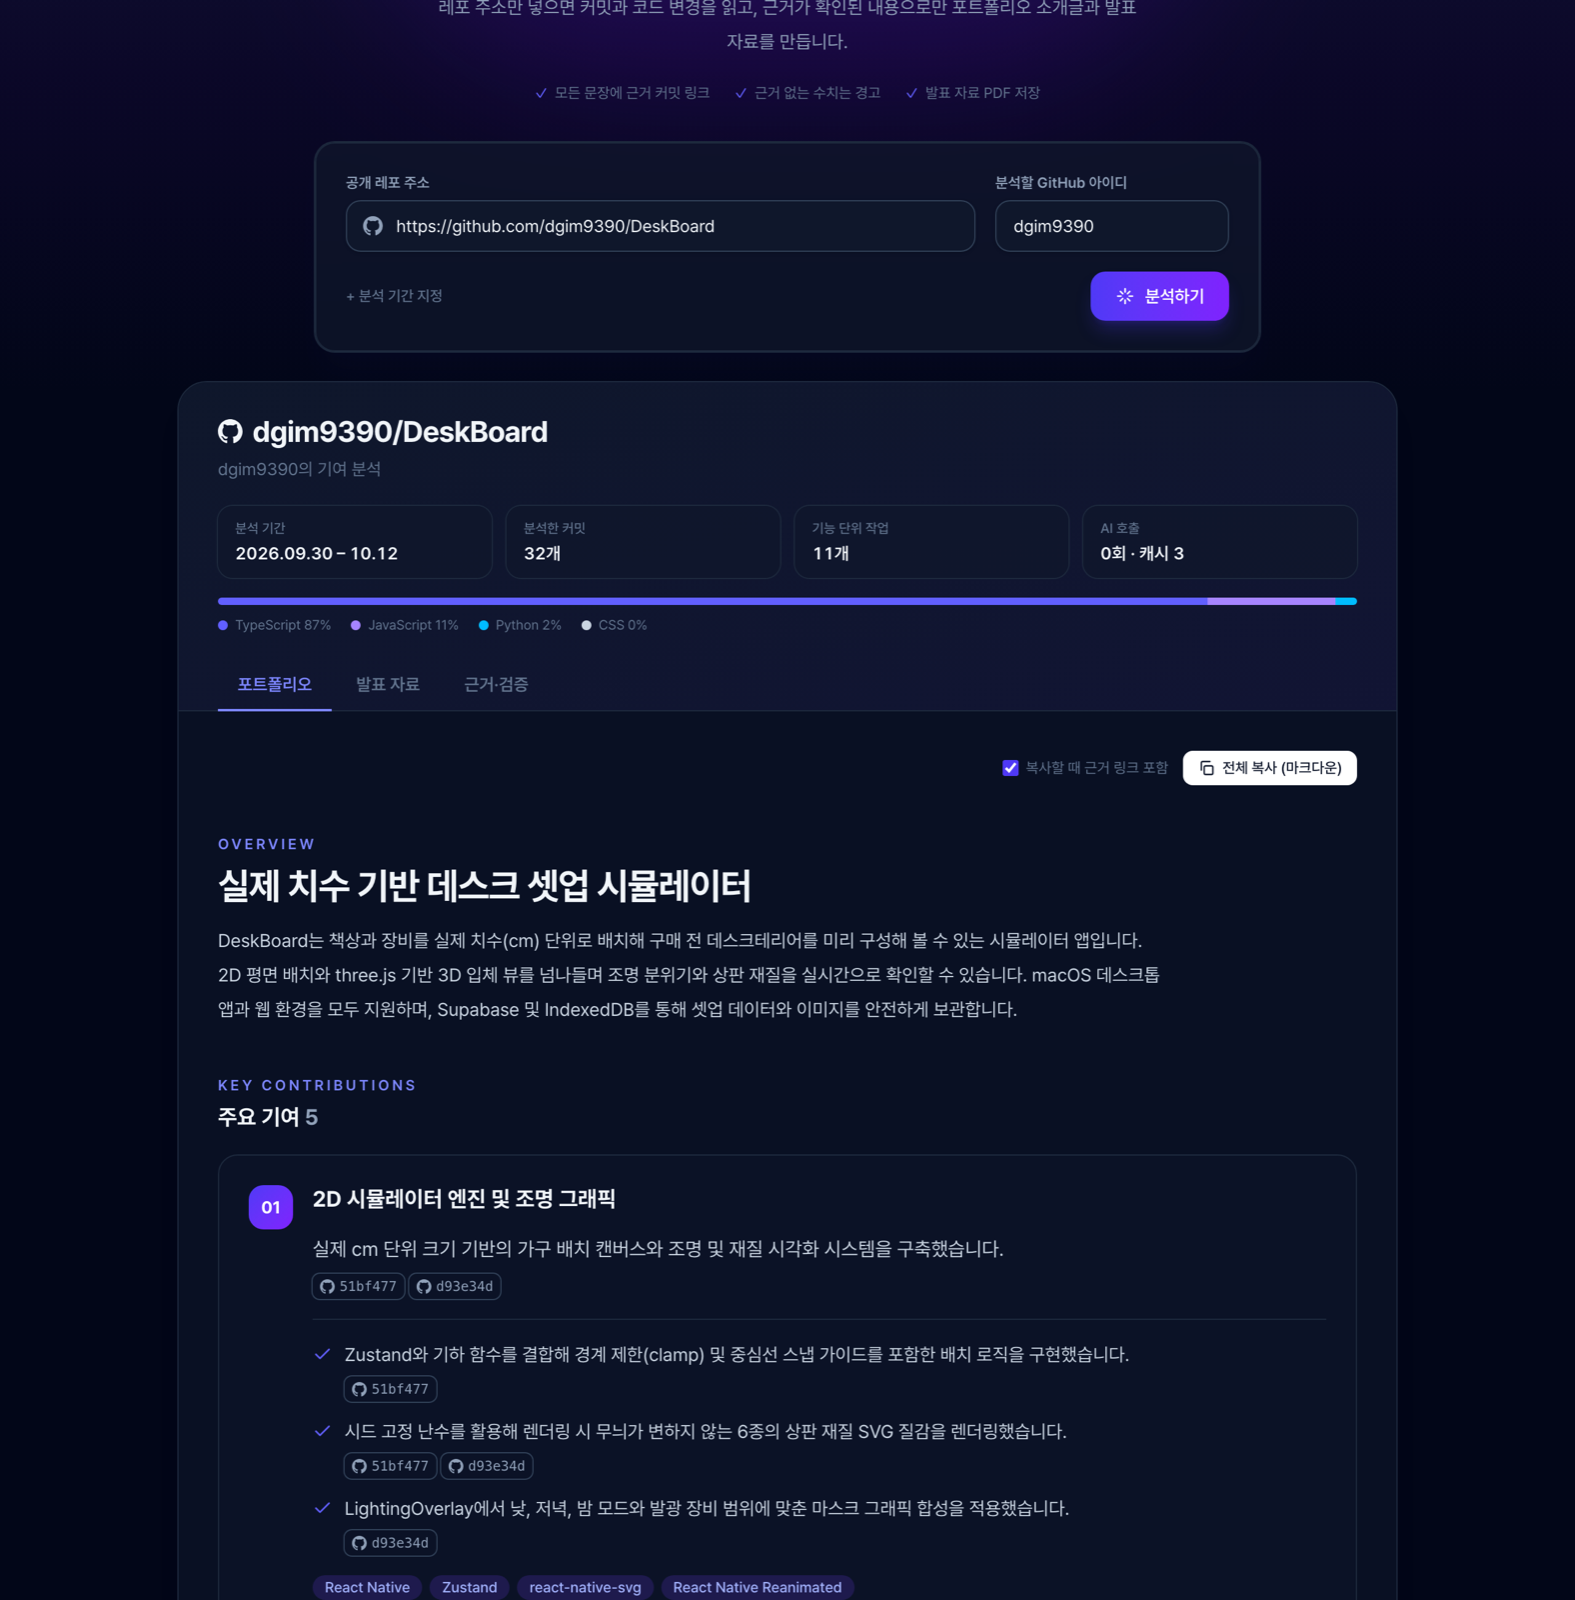
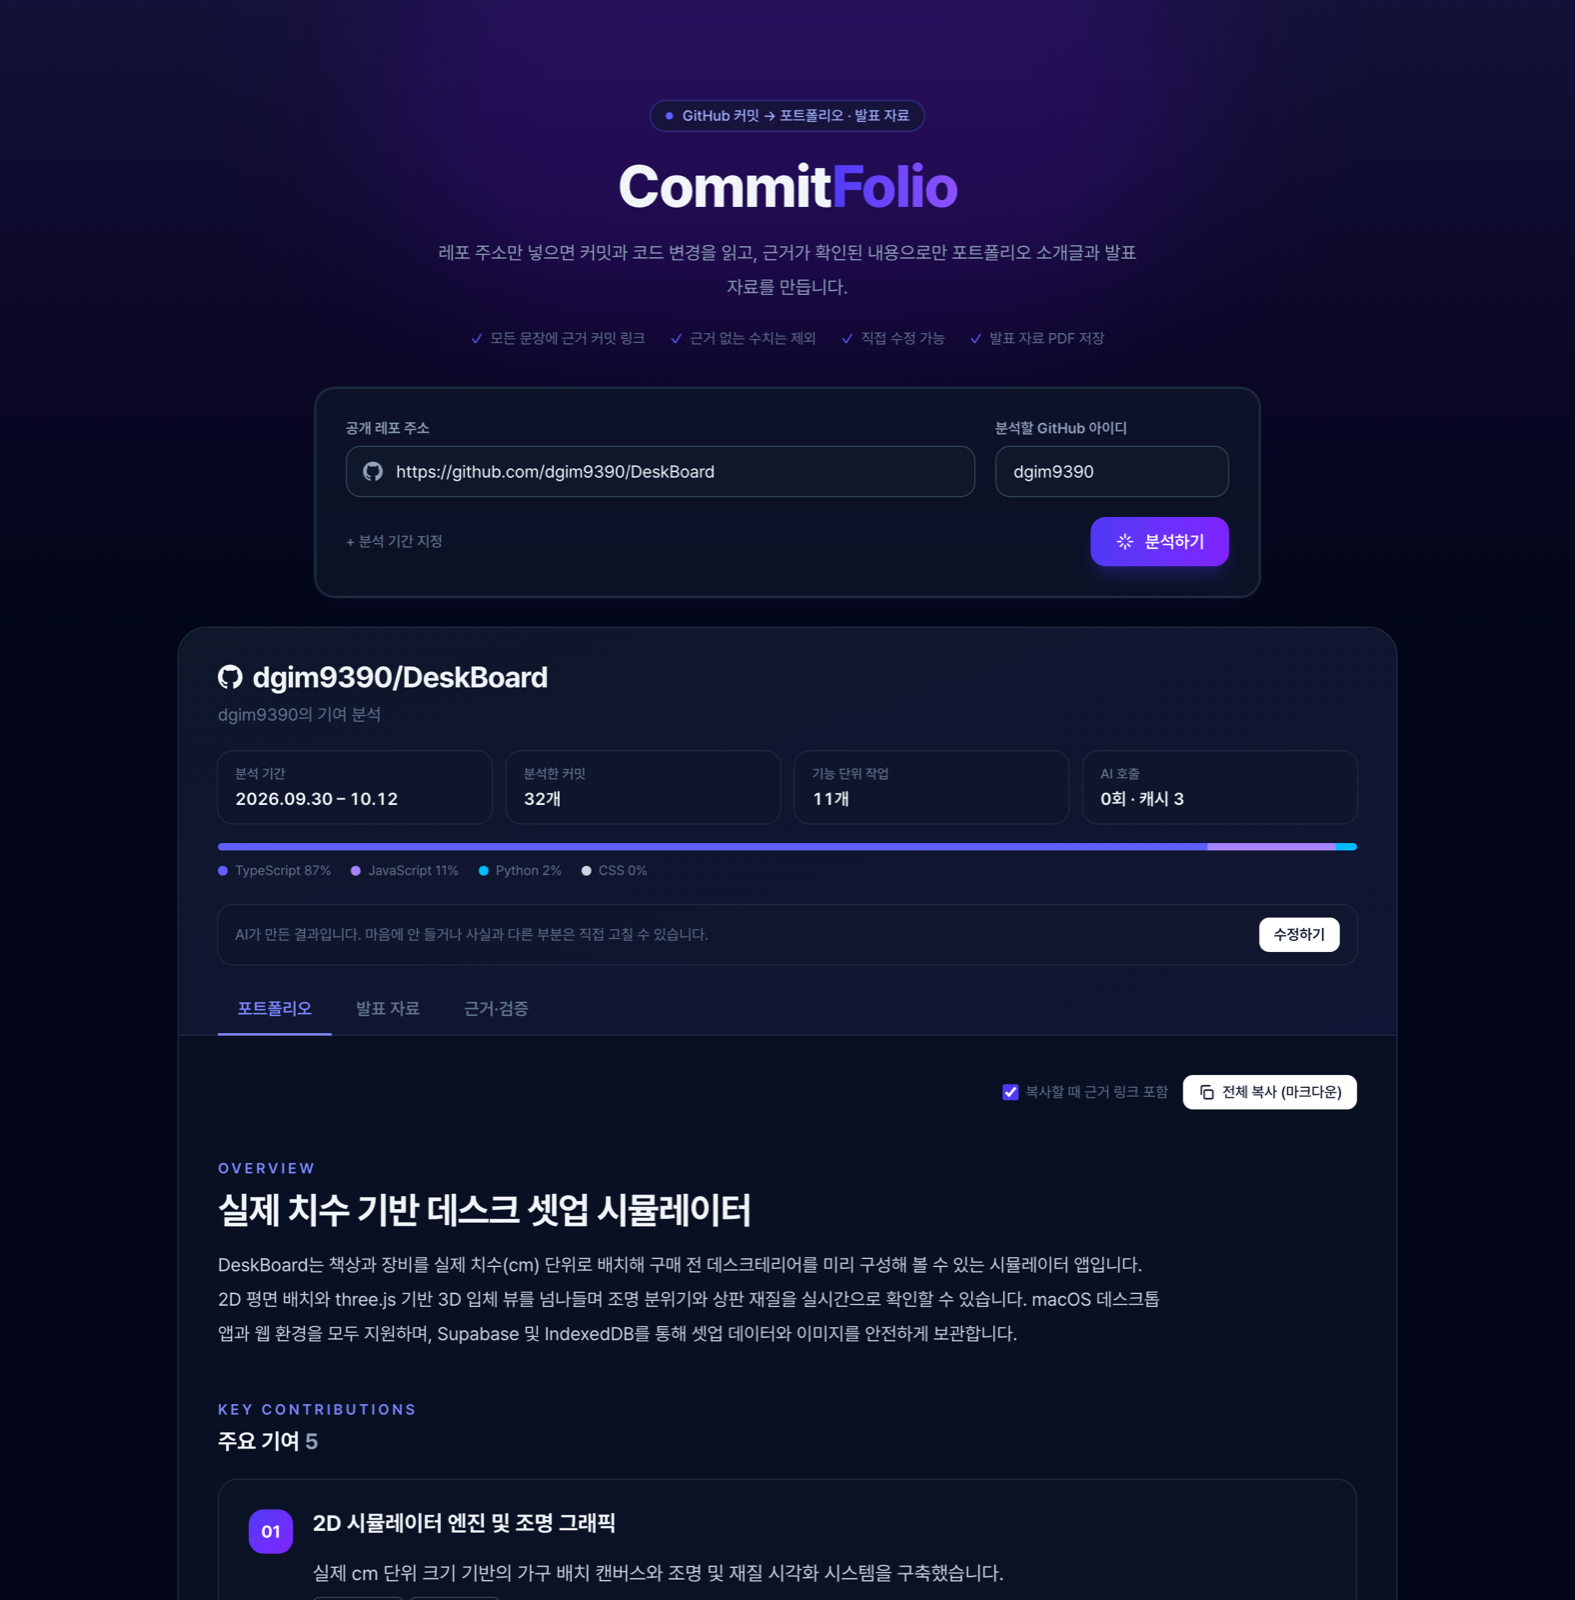
근거 내용 일치도 검사 추가, 발표 자료 표지 정리
- relevance.py: 문장과 근거 커밋의 단어 겹침 점수 (IDF 가중치, BM25 길이 보정, 문서 파일 제외,
  코드 식별자 쪼개기, 한국어 bigram)
- 유독 안 맞는 근거는 빼고, 근거가 모두 약하면 같은 작업 그룹의 더 맞는 커밋으로 교체
  (근거가 여럿이면 앞에 추가), 후보가 없으면 경고. 맞는 근거를 지우지 않도록 보수적으로 판정
- 숫자 검사는 AI가 처음 단 근거로 먼저 수행
- 발표 자료 표지에서 분석 기간·커밋 수·작업 수 제거
- 상단 안내 문구 갱신, README 설명·스크린샷 갱신

diff --git a/frontend/src/components/SlideCard.tsx b/frontend/src/components/SlideCard.tsx
@@ -8,9 +8,6 @@ import { ArrowRightIcon, CheckIcon } from './icons'
 export interface DeckMeta {
   repoName: string
   owner: string
-  period: string
-  commits: number
-  works: number
 }
 
 const LAYOUT_LABEL: Record<Slide['layout'], string> = {
@@ -62,13 +59,8 @@ function Cover({ slide, meta }: { slide: Slide; meta: DeckMeta }) {
         <h1 className="text-[6.2cqw] leading-none font-extrabold tracking-tight">{slide.title}</h1>
         <p className="mt-[2.2%] max-w-[75%] text-[2.2cqw] leading-snug text-indigo-100">{slide.headline}</p>
       </div>
-      <div className="relative flex flex-wrap gap-[1.2%] text-[1.15cqw]">
-        {[meta.period, `커밋 ${meta.commits}개`, `작업 ${meta.works}개`].filter(Boolean).map((t) => (
-          <span key={t} className="rounded-full bg-white/12 px-[1.4%] py-[0.5%] ring-1 ring-white/20 backdrop-blur">
-            {t}
-          </span>
-        ))}
-      </div>
+      {/* 분석 기간·커밋 수 같은 도구 쪽 정보는 발표에 필요 없어서 넣지 않는다. 아래 여백만 맞춘다 */}
+      <div className="relative h-[1.2cqw]" />
     </div>
   )
 }

diff --git a/frontend/src/components/SlidesTab.tsx b/frontend/src/components/SlidesTab.tsx
@@ -1,7 +1,6 @@
 import { useEffect, useRef, useState } from 'react'
 import { createPortal } from 'react-dom'
 import { slidesMarkdown, slideText } from '../format'
-import { projectMeta } from '../meta'
 import type { AnalysisResult } from '../types'
 import { CopyButton } from './CopyButton'
 import { Evidence } from './Evidence'
@@ -30,8 +29,7 @@ export function SlidesTab({ result, edit }: { result: AnalysisResult; edit: Edit
   const stage = useRef<HTMLDivElement>(null)
   // 편집 중에 장을 지우면 current가 범위를 넘을 수 있어 마지막 장으로 맞춘다
   const slide = slides[Math.min(current, slides.length - 1)]
-  const m = projectMeta(result)
-  const meta: DeckMeta = { repoName: result.repo.name, owner: result.repo.owner, period: m.period, commits: m.commits, works: m.works }
+  const meta: DeckMeta = { repoName: result.repo.name, owner: result.repo.owner }
 
   // ← → (와 스페이스) 키로 넘기기. 입력창에 포커스가 있을 때는 무시
   useEffect(() => {

diff --git a/frontend/src/App.tsx b/frontend/src/App.tsx
@@ -12,7 +12,7 @@ function jobFromUrl(): string | null {
   return new URLSearchParams(window.location.search).get('job')
 }
 
-const FEATURES = ['모든 문장에 근거 커밋 링크', '근거 없는 수치는 경고', '발표 자료 PDF 저장']
+const FEATURES = ['모든 문장에 근거 커밋 링크', '근거 없는 수치는 제외', '직접 수정 가능', '발표 자료 PDF 저장']
 
 export default function App() {
   const [jobId, setJobId] = useState<string | null>(jobFromUrl)

diff --git a/backend/app/pipeline/relevance.py b/backend/app/pipeline/relevance.py
@@ -1,0 +1,143 @@
+"""근거 내용 일치도: 문장이 근거로 단 커밋과 실제로 관련 있는지 점수로 본다.
+
+AI는 실제로 있는 커밋 ID를 달아도, 같은 작업의 엉뚱한 커밋을 고를 때가 있다
+(예: "3D에서 드래그로 제품 이동" 문장에 '꺼진 화면 반사광' 커밋). 그래서 문장과 커밋에서
+단어를 뽑아 얼마나 겹치는지 계산한다.
+
+점수 계산
+- 커밋 쪽 단어: 메시지 + 파일 경로 + diff. 코드 식별자는 쪼갠다 (useDeskStore → use, desk, store)
+  README 같은 문서 파일은 뺀다: 프로젝트 전체 설명이라 어떤 문장과도 겹쳐 버린다
+- 한국어는 두 글자 조각(bigram)으로 비교한다 (조사·어미가 달라도 겹치게)
+- IDF 가중치: 여러 커밋에 흔한 단어는 거의 0점, 그 커밋에만 있는 단어가 중요하다
+- 길이 보정(BM25 방식): 파일을 많이 바꾼 거대 커밋은 단어가 많아 무엇과도 잘 겹치므로 점수를 깎는다
+- 어느 커밋에도 없는 문장 단어(AI가 바꿔 말한 표현)는 계산에서 뺀다
+
+판정 (check_evidence) - 틀린 근거를 고치는 것만큼 맞는 근거를 지우지 않는 것이 중요해서 보수적으로 판단한다
+- 근거 커밋이 1~2개인 문장에서, 다른 근거보다 훨씬 안 맞고 점수 자체도 낮은 커밋은 근거에서 뺀다
+  (두 사실을 합친 문장은 근거마다 점수 차이가 커서, 상대 비교만으로 빼면 맞는 근거도 빠진다)
+- 근거가 모두 약하고 같은 작업 그룹 안에 확실히 더 맞는 커밋이 있으면,
+  근거가 1개였으면 그 커밋으로 바꾸고, 여러 개였으면 기존 근거는 두고 앞에 추가한다
+- 근거가 모두 약한데 더 나은 후보도 없으면 경고만 붙인다
+"""
+
+import math
+import re
+from collections import Counter
+from dataclasses import dataclass, field
+
+from app.models import Commit
+from app.pipeline.grouping.rules import is_doc_file
+
+_WORD = re.compile(r"[A-Za-z][A-Za-z0-9]*|[가-힣]+")
+_CAMEL = re.compile(r"[A-Z]?[a-z]+|[A-Z]+(?![a-z])")
+# 어떤 문장·커밋에나 나와서 관련성 판단에 도움이 안 되는 말
+_STOP = {
+    "the", "and", "for", "with", "from", "this", "that", "const", "let", "return", "import", "export",
+    "function", "true", "false", "null", "undefined", "new", "type", "string", "number",
+    "구현", "추가", "적용", "개선", "처리", "기능", "통해", "위해", "했습니다", "합니다", "있도록", "있는",
+}  # fmt: skip
+
+# BM25 길이 보정 상수 (검색엔진에서 흔히 쓰는 값)
+_K1, _B = 1.2, 0.75
+
+# 판정 기준 (DeskBoard 결과로 조정)
+WEAK_RATIO = 0.25  # 같은 문장의 가장 잘 맞는 근거보다 이 비율 미만이고
+WEAK_ABS = 0.12  # 점수 자체도 이보다 낮으면 '안 맞는 근거'
+SWITCH_RATIO = 2.0  # 후보 커밋이 현재 근거보다 이 배수 이상 잘 맞아야 근거를 바꾼다
+SWITCH_MIN = 0.35  # 바꿀 후보의 최소 점수 (애매한 후보로는 바꾸지 않는다)
+WARN_BELOW = 0.12  # 근거 점수가 이보다 낮은데 더 나은 후보가 없으면 경고
+
+
+def tokens(text: str) -> set[str]:
+    out: set[str] = set()
+    for word in _WORD.findall(text):
+        if word[0] >= "가":  # 한글 → bigram
+            if word not in _STOP and len(word) >= 2:
+                out.update(word[i : i + 2] for i in range(len(word) - 1))
+            continue
+        low = word.lower()
+        if len(low) >= 3 and low not in _STOP:
+            out.add(low)
+        for part in _CAMEL.findall(word):
+            p = part.lower()
+            if len(p) >= 3 and p not in _STOP:
+                out.add(p)
+    return out
+
+
+def _commit_text(c: Commit) -> str:
+    files = [f for f in c.files if not is_doc_file(f.path)]
+    return "\n".join([c.message] + [f.path for f in files] + [f.patch or "" for f in files])
+
+
+@dataclass
+class EvidenceCheck:
+    evidence: list[str]  # 고친 근거 커밋 목록
+    warning: str | None = None
+    notes: list[str] = field(default_factory=list)
+
+
+class RelevanceIndex:
+    def __init__(self, commits: list[Commit], groups: list[list[str]] | None = None):
+        self._tokens = {c.sha: tokens(_commit_text(c)) for c in commits}
+        n = len(commits) or 1
+        df = Counter(t for ts in self._tokens.values() for t in ts)
+        self._idf = {t: math.log((n + 1) / k) for t, k in df.items()}
+        avg = sum(len(ts) for ts in self._tokens.values()) / n or 1
+        # 커밋별 길이 보정 배수: 평균 크기면 1, 거대 커밋일수록 작아진다
+        self._norm = {
+            sha: (_K1 + 1) / (1 + _K1 * (1 - _B + _B * len(ts) / avg)) for sha, ts in self._tokens.items()
+        }
+        self._group_of = {sha: i for i, g in enumerate(groups or []) for sha in g}
+        self._groups = groups or []
+
+    def score(self, text: str, sha: str) -> float:
+        ts = [t for t in tokens(text) if t in self._idf]
+        total = sum(self._idf[t] for t in ts)
+        if total == 0 or sha not in self._tokens:
+            return 0.0
+        hit = sum(self._idf[t] for t in ts if t in self._tokens[sha])
+        return hit / total * self._norm[sha]
+
+    def candidates(self, shas: list[str]) -> set[str]:
+        """근거 커밋들이 속한 작업 그룹의 모든 커밋 (근거를 바꿀 때의 후보)."""
+        out = set(shas)
+        for sha in shas:
+            if sha in self._group_of:
+                out.update(self._groups[self._group_of[sha]])
+        return out
+
+    def check_evidence(self, text: str, shas: list[str], short: dict[str, str] | None = None) -> EvidenceCheck:
+        if not shas:
+            return EvidenceCheck(evidence=[])
+        label = short or {}
+        name = lambda s: label.get(s, s[:7])  # noqa: E731
+        scores = {s: self.score(text, s) for s in shas}
+        top = max(scores.values())
+        result = EvidenceCheck(evidence=list(shas))
+
+        # 1) 근거가 1~2개인 구체적인 문장: 유독 안 맞는 근거는 뺀다 (3개 이상은 작업 전체를 묶는 요약 문장이라 두지 않음)
+        if len(shas) <= 2 and top > 0:
+            weak = [s for s in shas if scores[s] < top * WEAK_RATIO and scores[s] < WEAK_ABS]
+            if weak and len(weak) < len(shas):
+                result.evidence = [s for s in shas if s not in weak]
+                result.notes.append(f"내용과 맞지 않는 근거 {', '.join(map(name, weak))}를 뺐습니다")
+                top = max(scores[s] for s in result.evidence)
+
+        # 2) 근거가 모두 약하면 같은 작업 그룹에서 더 맞는 커밋을 찾는다
+        others = self.candidates(shas) - set(result.evidence)
+        if others:
+            best_score, best = max((self.score(text, s), s) for s in others)
+            if best_score >= SWITCH_MIN and best_score >= top * SWITCH_RATIO:
+                old = ", ".join(map(name, result.evidence))
+                if len(result.evidence) == 1:
+                    result.evidence = [best]
+                    result.notes.append(f"근거를 {old}에서 더 맞는 {name(best)}로 바꿨습니다")
+                else:  # 근거가 여럿이면 일부는 맞을 수 있으니 지우지 않고 더 맞는 커밋을 앞에 더한다
+                    result.evidence = [best] + result.evidence
+                    result.notes.append(f"더 맞는 근거 {name(best)}를 추가했습니다")
+                return result
+
+        if top < WARN_BELOW:
+            result.warning = "근거 커밋과 내용이 잘 맞지 않을 수 있습니다"
+        return result

diff --git a/backend/tests/test_relevance.py b/backend/tests/test_relevance.py
@@ -1,0 +1,60 @@
+from datetime import datetime, timezone
+
+from app.models import Commit, FileChange
+from app.pipeline.relevance import RelevanceIndex, tokens
+
+T = datetime(2026, 10, 1, tzinfo=timezone.utc)
+
+
+def commit(i: int, msg: str, path: str, patch: str) -> Commit:
+    return Commit(sha=f"{i:040d}", url="", message=msg, authored_at=T, author_login="u",
+                  files=[FileChange(path=path, additions=1, patch=patch)])
+
+
+DRAG = commit(1, "3D에서 제품을 끌어서 옮기기", "lib/desk3d/scene.ts", "+const raycaster = new Raycaster()\n+onPointerDrag(item)")
+GLASS = commit(2, "꺼진 화면에 반사광", "lib/desk3d/textures.ts", "+const screenGlass = reflectionGradient()")
+RELIEF = commit(3, "사진 제품을 입체 곡면으로", "lib/desk3d/models.ts", "+function reliefMesh(alpha) { distanceTransform(alpha) }")
+CATALOG = commit(4, "제품 19종 추가", "data/catalog.ts", "+export const catalog = [speakerStand, shelf]")
+README = commit(5, "README 정리", "README.md", "+3D 드래그 raycaster reliefMesh 반사광 카탈로그 전부 설명")
+COMMITS = [DRAG, GLASS, RELIEF, CATALOG, README]
+GROUPS = [[DRAG.sha, GLASS.sha, RELIEF.sha], [CATALOG.sha], [README.sha]]
+INDEX = RelevanceIndex(COMMITS, GROUPS)
+
+
+def test_tokens_split_identifiers_and_korean():
+    ts = tokens("useDeskStore로 화면을 그렸다")
+    assert {"usedeskstore", "use", "desk", "store", "화면"} <= ts
+
+
+def test_related_commit_scores_higher():
+    text = "레이캐스터로 3D 화면에서 제품을 드래그해 옮기기 (Raycaster, onPointerDrag)"
+    assert INDEX.score(text, DRAG.sha) > INDEX.score(text, GLASS.sha)
+
+
+def test_drop_unrelated_evidence():
+    res = INDEX.check_evidence("Raycaster로 onPointerDrag 끌어서 옮기기", [DRAG.sha, GLASS.sha])
+    assert res.evidence == [DRAG.sha]
+    assert res.notes and "뺐습니다" in res.notes[0]
+
+
+def test_switch_to_better_commit_in_same_group():
+    res = INDEX.check_evidence("distanceTransform으로 사진을 reliefMesh 입체 곡면으로", [GLASS.sha])
+    assert res.evidence == [RELIEF.sha]
+    assert "바꿨습니다" in res.notes[0]
+
+
+def test_never_switch_to_other_group_or_docs():
+    # 카탈로그는 다른 작업 그룹, README 같은 문서 파일은 비교에서 뺀다 → 바꿀 후보가 없어 경고만
+    res = INDEX.check_evidence("speakerStand shelf catalog 제품 목록", [GLASS.sha])
+    assert res.evidence == [GLASS.sha]
+    assert res.warning
+
+
+def test_keep_good_evidence_untouched():
+    res = INDEX.check_evidence("reliefMesh distanceTransform 입체 곡면", [RELIEF.sha])
+    assert res.evidence == [RELIEF.sha] and not res.notes and res.warning is None
+
+
+def test_multi_evidence_gets_better_commit_prepended():
+    res = INDEX.check_evidence("reliefMesh distanceTransform 사진 입체 곡면", [DRAG.sha, GLASS.sha])
+    assert res.evidence[0] == RELIEF.sha and DRAG.sha in res.evidence

diff --git a/backend/app/pipeline/validate.py b/backend/app/pipeline/validate.py
@@ -4,6 +4,7 @@
 - 근거 커밋 ID가 실제로 있는지 (없는 ID는 빼고, 근거가 하나도 안 남은 문장은 버린다)
 - "README" 근거는 README나 레포 설명이 실제로 있을 때만 인정
 - 문장 속 숫자가 근거(커밋 메시지·diff, README)에 실제로 나오는지 (안 나오면 그 문장을 뺀다)
+- 근거 커밋이 문장 내용과 맞는지 (relevance.py: 안 맞는 근거는 빼거나 더 맞는 커밋으로 고친다)
 """
 
 import re
@@ -21,6 +22,7 @@ from app.models import (
     TechGroup,
 )
 from app.pipeline.generate import LLMOutputs
+from app.pipeline.relevance import RelevanceIndex
 from app.pipeline.summarize import commit_source_text
 from app.pipeline.text import CommitIndex
 
@@ -64,8 +66,10 @@ def validate_outputs(
     index: CommitIndex,
     repo: RepoInfo,
     notes: list[str],
+    groups: list[list[str]] | None = None,
 ) -> Outputs:
     sources = {c.sha: commit_source_text(c) for c in commits}
+    relevance = RelevanceIndex(commits, groups)
     readme_text = "\n".join(filter(None, [repo.readme, repo.description, repo.name]))
     everything = list(sources.values()) + [readme_text]
 
@@ -95,12 +99,17 @@ def validate_outputs(
         if not shas and not from_readme:
             notes.append(f"{where}: 근거가 없어 문장을 뺐습니다 → {text}")
             return None
+        # 숫자는 AI가 처음 단 근거로 확인한다. 근거를 고친 뒤에 확인하면 잘못된 근거에 기대
+        # 쓴 문장이 다른 커밋의 숫자로 통과될 수 있어서다.
         missing = unverified_numbers(text, evidence_text(shas, from_readme))
         if missing:
             # 근거와 맞지 않는 숫자가 든 문장은 경고만 붙이지 않고 뺀다 (지어낸 수치일 수 있으므로)
             notes.append(f"{where}: 숫자 {', '.join(missing)}이(가) 근거 커밋에서 확인되지 않아 문장을 뺐습니다 → {text}")
             return None
-        return Statement(text=text, evidence=shas, from_readme=from_readme)
+        check = relevance.check_evidence(text, shas)
+        notes.extend(f"{where}: {n} → {text}" for n in check.notes)
+        warnings = [check.warning] if check.warning else []
+        return Statement(text=text, evidence=check.evidence, from_readme=from_readme, warnings=warnings)
 
     def check_free_text(text: str, where: str) -> None:
         """근거가 따로 없는 글(개요, 발표자 메모 등)은 레포 전체에서 숫자를 찾는다."""

diff --git a/backend/tests/test_llm_pipeline.py b/backend/tests/test_llm_pipeline.py
@@ -209,7 +209,8 @@ def test_validate_outputs():
     assert [s.title for s in out.slides] == ["데스크보드", "3D", "목차"]  # 근거가 다 빠진 장은 삭제, 표지는 유지
     feature = out.slides[1]
     assert feature.points[0].heading == "장면" and feature.points[0].text == "three.js 장면"
-    assert feature.points[0].evidence == [COMMITS[2].sha, COMMITS[0].sha]
+    # 'three.js 장면'과 상관없는 카탈로그 커밋(C01)은 근거 일치도 검사에서 빠진다
+    assert feature.points[0].evidence == [COMMITS[2].sha]
     assert [h.value for h in feature.highlights] == ["19종"]
     assert any("3배" in n for n in notes)
     assert any("발표자 메모" in n for n in notes)  # "2주" 근거 없음

diff --git a/backend/app/pipeline/runner.py b/backend/app/pipeline/runner.py
@@ -54,7 +54,8 @@ def analyze(
         outputs = Outputs(portfolio=Portfolio(tagline="", overview="", contributions=[], tech_stack=[]), slides=[])
         notes.append("분석할 커밋이 없어 결과를 만들지 않았습니다.")
     else:
-        outputs = validate_outputs(raw, analyzed, index, collected.repo, notes)
+        groups = [g.commit_shas for g in grouping.groups]
+        outputs = validate_outputs(raw, analyzed, index, collected.repo, notes, groups)
 
     return AnalysisResult(
         repo=collected.repo,
